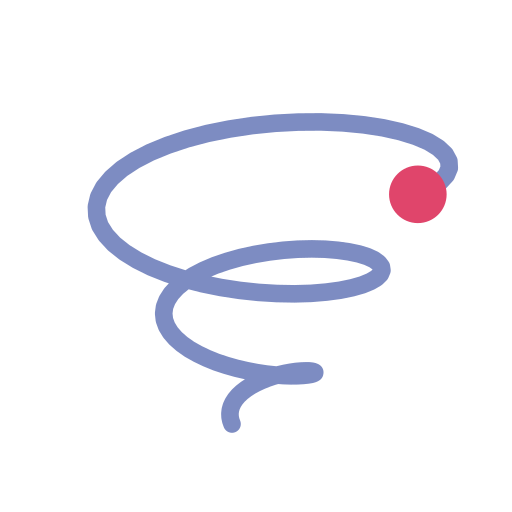
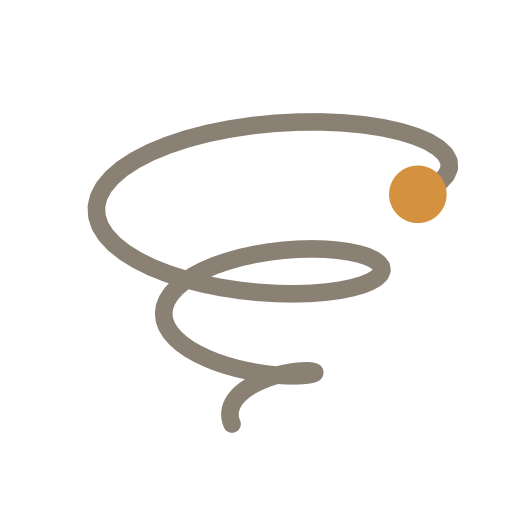
feat(site): warm graphite and amber palette, the Gliders mark in the hero
Dark mode put a light pink accent on blue slate, and the two fought. The
ground and accent now share a warm temperature: warm graphite and amber in
dark, warm paper and amber in light. The title goes back to text colour, the
current sidebar item is a tint, code no longer uses the accent, headings
drop to 600, and the marks take the amber dot. The landing hero shows the
Gliders mark left of the title, and the sidebar and code blocks get a soft
warm glow in one corner.

Changed region(s): [[0.1562, 0.2188, 0.9062, 0.8438]]

diff --git a/site/src/styles/theme.css b/site/src/styles/theme.css
@@ -16,7 +16,7 @@ h3,
 h4,
 .site-title,
 .hero h1 {
-  font-weight: 700;
+  font-weight: 600;
   font-family: var(--af-font-display);
   letter-spacing: -0.02em;
 }
@@ -37,61 +37,72 @@ samp,
   font-family: var(--af-font-code);
 }
 
-/* ---- dark scheme (the default) ---- */
+/* ---- dark scheme (the default): warm graphite and amber ---- */
 
 :root {
   /* project tokens */
-  --af-spark: #ff7d98;
-  --af-result: #7ee0b4;
-  --af-success: #8fe3b0;
-  --af-success-bg: #12301f;
-  --af-failure: #ffb0bf;
-  --af-failure-bg: #3d1222;
-  --af-skipped: #c4cadf;
-  --af-skipped-bg: #232944;
+  --af-spark: #e2a65c;
+  --af-result: #a9c08f;
+  --af-success: #8fd1a0;
+  --af-success-bg: #15291c;
+  --af-failure: #f0a0a8;
+  --af-failure-bg: #331a1d;
+  --af-skipped: #b8b3aa;
+  --af-skipped-bg: #26241f;
 
   /* Starlight ramp, darkest to lightest */
-  --sl-color-black: #0e1120;
-  --sl-color-gray-7: #151a2c;
-  --sl-color-gray-6: #232944;
-  --sl-color-gray-5: #3a4163;
-  --sl-color-gray-4: #7882aa;
-  --sl-color-gray-3: #99a1c0;
-  --sl-color-gray-2: #c4cadf;
-  --sl-color-gray-1: #e1e5f2;
-  --sl-color-white: #f2f4fb;
+  --sl-color-black: #14120f;
+  --sl-color-gray-7: #1c1916;
+  --sl-color-gray-6: #2d2924;
+  --sl-color-gray-5: #4a443c;
+  --sl-color-gray-4: #8a8174;
+  --sl-color-gray-3: #a69d90;
+  --sl-color-gray-2: #cfc8bc;
+  --sl-color-gray-1: #ddd6ca;
+  --sl-color-white: #ece6dc;
 
   /* accent */
-  --sl-color-accent-low: #3d1222;
-  --sl-color-accent: #ff7d98;
-  --sl-color-accent-high: #ffc2cf;
+  --sl-color-accent-low: #33261a;
+  --sl-color-accent: #e2a65c;
+  --sl-color-accent-high: #f0c088;
+
+  /* surfaces: one warm family, a step apart */
+  --sl-color-text-accent: var(--sl-color-accent);
+  --sl-color-bg-nav: #181613;
+  --sl-color-bg-sidebar: #1c1916;
+  --sl-color-bg-inline-code: #26221d;
 }
 
-/* ---- light scheme ---- */
+/* ---- light scheme: warm paper and burnt amber ---- */
 
 :root[data-theme='light'] {
-  --af-spark: #a8133a;
-  --af-result: #0b6b3a;
-  --af-success: #0b5a2c;
-  --af-success-bg: #dff4e7;
-  --af-failure: #8c1030;
-  --af-failure-bg: #fbe7ec;
-  --af-skipped: #2d3552;
-  --af-skipped-bg: #e4e8f3;
+  --af-spark: #c47a1e;
+  --af-result: #3f6b2f;
+  --af-success: #1f6b3a;
+  --af-success-bg: #e3f2e7;
+  --af-failure: #9b1c2c;
+  --af-failure-bg: #f8e4e6;
+  --af-skipped: #4f4a42;
+  --af-skipped-bg: #ebe8e2;
 
-  --sl-color-black: #fbfbfe;
-  --sl-color-gray-7: #f2f4fb;
-  --sl-color-gray-6: #e4e8f3;
-  --sl-color-gray-5: #c3c9de;
-  --sl-color-gray-4: #5f6889;
-  --sl-color-gray-3: #4a5273;
-  --sl-color-gray-2: #2d3552;
-  --sl-color-gray-1: #1b2033;
-  --sl-color-white: #0f1322;
+  --sl-color-black: #faf8f4;
+  --sl-color-gray-7: #f2eee7;
+  --sl-color-gray-6: #e3ddd2;
+  --sl-color-gray-5: #c9c1b3;
+  --sl-color-gray-4: #6b6358;
+  --sl-color-gray-3: #5c544a;
+  --sl-color-gray-2: #3a342c;
+  --sl-color-gray-1: #2a251f;
+  --sl-color-white: #1a1612;
 
-  --sl-color-accent-low: #fbe7ec;
-  --sl-color-accent: #a8133a;
-  --sl-color-accent-high: #7a0d2a;
+  --sl-color-accent-low: #f6e7d2;
+  --sl-color-accent: #a35c10;
+  --sl-color-accent-high: #7a4510;
+
+  --sl-color-text-accent: var(--sl-color-accent);
+  --sl-color-bg-nav: #f2eee7;
+  --sl-color-bg-sidebar: #f2eee7;
+  --sl-color-bg-inline-code: #ebe5da;
 }
 
 /* ---- components ---- */
@@ -137,4 +148,54 @@ samp,
 .af-badge.success {
   background: var(--af-success-bg);
   color: var(--af-success);
+}
+
+/* The site title reads as text; the accent stays for links and actions. */
+.site-title {
+  color: var(--sl-color-white);
+}
+
+/* Current sidebar page: a tint, not a solid block of accent. */
+#starlight__sidebar a[aria-current='page'],
+#starlight__sidebar a[aria-current='page']:hover,
+#starlight__sidebar a[aria-current='page']:focus {
+  background-color: var(--sl-color-accent-low);
+  color: var(--sl-color-accent-high);
+}
+
+/* Landing hero: the Gliders mark sits left of the copy on wide screens. */
+@media (min-width: 50rem) {
+  .hero {
+    grid-template-columns: 4fr 7fr;
+  }
+
+  .hero > img {
+    order: 0;
+    width: min(100%, 20rem);
+  }
+}
+
+/* Light scheme: buttons take the brighter amber with dark text; links keep the deeper one for contrast. */
+:root[data-theme='light'] .sl-link-button.primary {
+  background: var(--af-spark);
+  border-color: var(--af-spark);
+  color: #1a1206;
+}
+
+/* Warm air: a soft accent glow in one corner of the sidebar (rising from the bottom left) and
+   of each code block (top right, where the dot leaves the coil). */
+:root {
+  --af-glow: color-mix(in srgb, var(--sl-color-accent) 9%, transparent);
+}
+
+:root[data-theme='light'] {
+  --af-glow: color-mix(in srgb, var(--af-spark) 13%, transparent);
+}
+
+.sidebar-pane {
+  background-image: radial-gradient(120% 45% at 0% 100%, var(--af-glow), transparent 70%);
+}
+
+.sl-markdown-content .expressive-code .frame pre {
+  background: radial-gradient(70% 90% at 100% 0%, var(--af-glow), transparent 70%), var(--code-background);
 }
